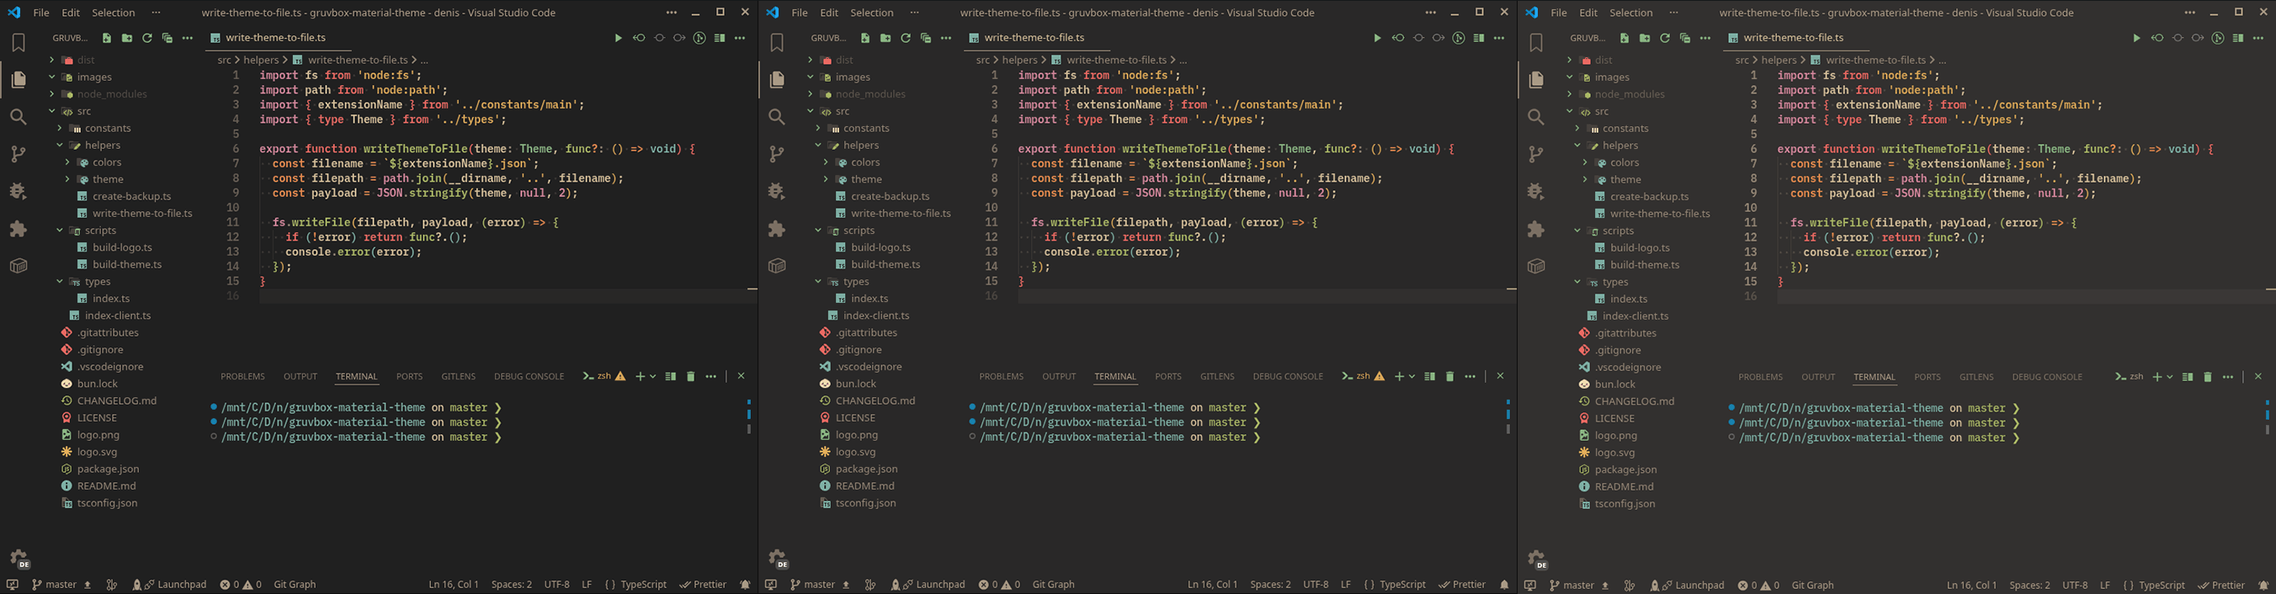
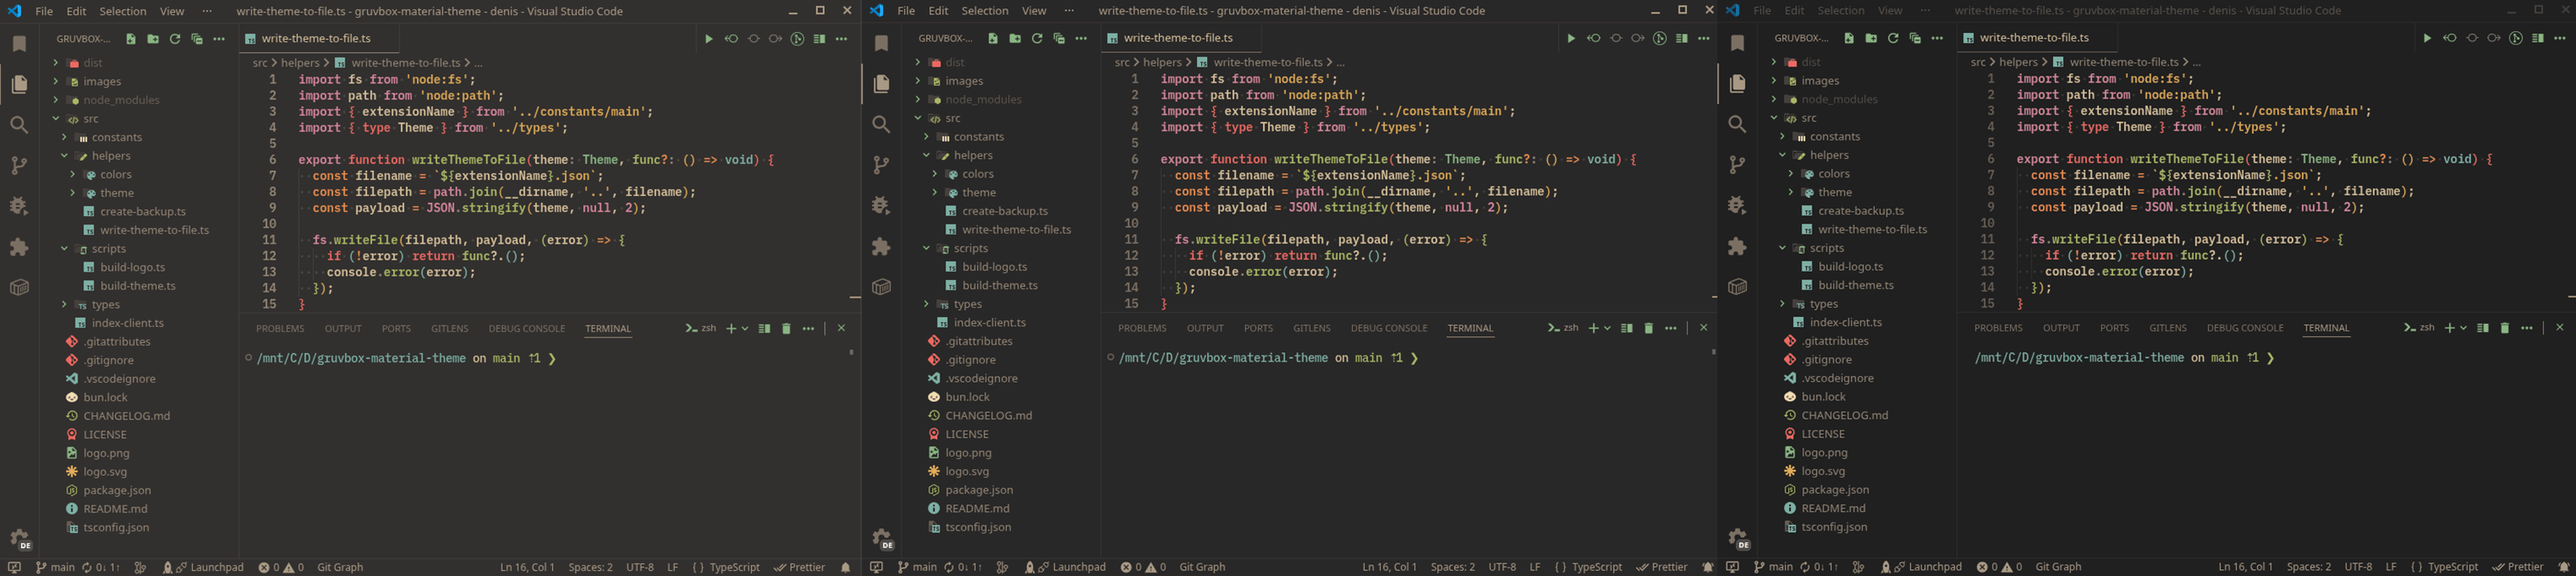
v1.1.0

diff --git a/src/helpers/colors/create-colors.ts b/src/helpers/colors/create-colors.ts
@@ -1,4 +1,4 @@
-import { materialPalette } from '../../constants/theme/palettes';
+import { materialPalette } from '../../constants/theme/palette';
 import {
   type ContrastColors,
   type CursorColor,
@@ -24,7 +24,6 @@ export function createColors({
     'activityBar.activeBorder': contrastColors.grey1,
     'activityBar.activeFocusBorder': contrastColors.grey1,
     'activityBar.background': contrastColors.bg,
-    'activityBar.border': contrastColors.bg,
     'activityBar.dropBackground': contrastColors.bg,
     'activityBar.foreground': contrastColors.grey2,
     'activityBar.inactiveForeground': contrastColors.grey0,
@@ -78,7 +77,7 @@ export function createColors({
     'debugTokenExpression.string': paletteColors.yellow,
     'debugTokenExpression.value': paletteColors.green,
     'debugToolBar.background': contrastColors.bg,
-    'descriptionForeground': contrastColors.grey1,
+    descriptionForeground: contrastColors.grey1,
     'diffEditor.diagonalFill': contrastColors.bg6,
     'diffEditor.insertedTextBackground': `${paletteColors.aquaDim}40`,
     'diffEditor.removedTextBackground': `${paletteColors.redDim}40`,
@@ -119,7 +118,6 @@ export function createColors({
     'editorError.foreground': paletteColors.redDim,
     'editorGhostText.background': `${contrastColors.bg}00`,
     'editorGhostText.foreground': contrastColors.bg9,
-    'editorGroup.border': contrastColors.bg0,
     'editorGroup.dropBackground': `${contrastColors.bg5}60`,
     'editorGroupHeader.noTabsBackground': contrastColors.bg,
     'editorGroupHeader.tabsBackground': contrastColors.bg,
@@ -179,7 +177,7 @@ export function createColors({
     'editorWidget.background': contrastColors.bg,
     'editorWidget.border': contrastColors.bg9,
     'editorWidget.foreground': paletteColors.fg,
-    'errorForeground': paletteColors.red,
+    errorForeground: paletteColors.red,
     'extensionBadge.remoteBackground': contrastColors.grey2,
     'extensionBadge.remoteForeground': contrastColors.bg,
     'extensionButton.prominentBackground': contrastColors.grey2,
@@ -188,8 +186,7 @@ export function createColors({
     'extensionIcon.preReleaseForeground': paletteColors.orange,
     'extensionIcon.starForeground': paletteColors.aqua,
     'extensionIcon.verifiedForeground': paletteColors.green,
-    'focusBorder': `${contrastColors.bg5}00`,
-    'foreground': contrastColors.grey2,
+    foreground: contrastColors.grey2,
     'gitDecoration.addedResourceForeground': `${materialPalette.green}a0`,
     'gitDecoration.conflictingResourceForeground': `${materialPalette.purple}a0`,
     'gitDecoration.deletedResourceForeground': `${materialPalette.red}a0`,
@@ -204,7 +201,8 @@ export function createColors({
     'gitlens.decorations.branchAheadForegroundColor': paletteColors.aqua,
     'gitlens.decorations.branchBehindForegroundColor': paletteColors.orange,
     'gitlens.decorations.branchDivergedForegroundColor': paletteColors.yellow,
-    'gitlens.decorations.branchMissingUpstreamForegroundColor': paletteColors.red,
+    'gitlens.decorations.branchMissingUpstreamForegroundColor':
+      paletteColors.red,
     'gitlens.decorations.branchUnpublishedForegroundColor': paletteColors.blue,
     'gitlens.decorations.branchUpToDateForegroundColor': paletteColors.fg,
     'gitlens.decorations.copiedForegroundColor': paletteColors.purple,
@@ -303,7 +301,6 @@ export function createColors({
     'notificationsInfoIcon.foreground': paletteColors.blue,
     'notificationsWarningIcon.foreground': paletteColors.yellow,
     'panel.background': contrastColors.bg,
-    'panel.border': contrastColors.bg,
     'panelInput.border': contrastColors.bg5,
     'panelSection.border': contrastColors.bg0,
     'panelSectionHeader.background': contrastColors.bg,
@@ -335,7 +332,7 @@ export function createColors({
     'rust_analyzer.inlayHints.foreground': contrastColors.bg9,
     'rust_analyzer.syntaxTreeBorder': paletteColors.red,
     'sash.hoverBorder': contrastColors.grey0,
-    'scrollbar.shadow': contrastColors.shadow,
+    'scrollbar.shadow': contrastColors.bg2,
     'scrollbarSlider.activeBackground': contrastColors.grey2,
     'scrollbarSlider.background': `${contrastColors.bg9}80`,
     'scrollbarSlider.hoverBackground': contrastColors.bg9,
@@ -362,7 +359,6 @@ export function createColors({
     'sideBarSectionHeader.foreground': contrastColors.grey2,
     'sideBarTitle.foreground': contrastColors.grey2,
     'statusBar.background': contrastColors.bg,
-    'statusBar.border': contrastColors.bg,
     'statusBar.debuggingBackground': contrastColors.bg,
     'statusBar.debuggingForeground': paletteColors.orange,
     'statusBar.foreground': contrastColors.grey2,
@@ -414,9 +410,7 @@ export function createColors({
     'symbolIcon.unitForeground': paletteColors.fg,
     'symbolIcon.variableForeground': paletteColors.blue,
     'tab.activeBackground': contrastColors.bg,
-    'tab.activeBorder': contrastColors.grey2,
     'tab.activeForeground': paletteColors.fg,
-    'tab.border': contrastColors.bg,
     'tab.hoverBackground': contrastColors.bg,
     'tab.hoverForeground': paletteColors.fg,
     'tab.inactiveBackground': contrastColors.bg,
@@ -459,7 +453,6 @@ export function createColors({
     'textPreformat.foreground': paletteColors.yellow,
     'titleBar.activeBackground': contrastColors.bg,
     'titleBar.activeForeground': contrastColors.grey2,
-    'titleBar.border': contrastColors.bg,
     'titleBar.inactiveBackground': contrastColors.bg,
     'titleBar.inactiveForeground': contrastColors.grey0,
     'toolbar.hoverBackground': contrastColors.bg3,
@@ -469,6 +462,6 @@ export function createColors({
     'welcomePage.buttonHoverBackground': `${contrastColors.bg2}a0`,
     'welcomePage.progress.foreground': paletteColors.green,
     'welcomePage.tileHoverBackground': contrastColors.bg2,
-    'widget.shadow': contrastColors.shadow,
+    'widget.shadow': contrastColors.bg2,
   };
 }

diff --git a/src/helpers/theme/create-theme.ts b/src/helpers/theme/create-theme.ts
@@ -1,18 +1,16 @@
-import {
-  classicPallete,
-  materialPalette,
-} from '../../constants/theme/palettes';
+import { classicPallete, materialPalette } from '../../constants/theme/palette';
 
 import {
   hardContrast,
   mediumContrast,
   softContrast,
-} from '../../constants/theme/contrasts';
+} from '../../constants/theme/contrast';
 
 import {
   createColors,
   createSelectionColors,
   createSemanticColors,
+  createSeparatorsColor,
   createTokenColors,
 } from '../colors';
 
@@ -36,9 +34,13 @@ const contrastColorsRecord: Record<ThemeContrast, ContrastColors> = {
   soft: softContrast,
 };
 
-export function createTheme(themeOptions: ThemeOptions): Theme {
-  const { palette, contrast, selection, cursor } = themeOptions;
-
+export function createTheme({
+  contrast,
+  cursor,
+  enableSparators,
+  palette,
+  selection,
+}: ThemeOptions): Theme {
   const paletteColors = paletteColorsRecord[palette];
   const contrastColors = contrastColorsRecord[contrast];
 
@@ -55,18 +57,22 @@ export function createTheme(themeOptions: ThemeOptions): Theme {
     selectionColors,
   });
 
-  const tokenColors = createTokenColors({
+  const separatorsColor = createSeparatorsColor({
+    isEnabled: enableSparators,
     contrastColors,
-    paletteColors,
   });
-
-  const semanticTokenColors = createSemanticColors(paletteColors);
 
   return {
     palette,
-    colors,
-    tokenColors,
+    colors: {
+      ...colors,
+      ...separatorsColor,
+    },
+    tokenColors: createTokenColors({
+      contrastColors,
+      paletteColors,
+    }),
     semanticHighlighting: true,
-    semanticTokenColors,
+    semanticTokenColors: createSemanticColors(paletteColors),
   };
 }

diff --git a/src/helpers/theme/get-theme-options.ts b/src/helpers/theme/get-theme-options.ts
@@ -3,6 +3,7 @@ import { defaultThemeOptions, extensionName } from '../../constants/main';
 import {
   type CursorColor,
   type SelectionColor,
+  type Separators,
   type ThemeContrast,
   type ThemeOptions,
   type ThemePalette,
@@ -15,10 +16,12 @@ export function getThemeOptions(): ThemeOptions {
   const cursor = config.get<CursorColor>('cursor');
   const palette = config.get<ThemePalette>('palette');
   const selection = config.get<SelectionColor>('selection');
+  const enableSparators = config.get<Separators>('separators');
 
   return {
     contrast: contrast ?? defaultThemeOptions.contrast,
     cursor: cursor ?? defaultThemeOptions.cursor,
+    enableSparators: enableSparators ?? defaultThemeOptions.enableSparators,
     palette: palette ?? defaultThemeOptions.palette,
     selection: selection ?? defaultThemeOptions.selection,
   };
@@ -28,6 +31,7 @@ export function checkIsDefaultThemeOptions(options: ThemeOptions) {
   return (
     options.contrast === defaultThemeOptions.contrast &&
     options.cursor === defaultThemeOptions.cursor &&
+    options.enableSparators === defaultThemeOptions.enableSparators &&
     options.palette === defaultThemeOptions.palette &&
     options.selection === defaultThemeOptions.selection
   );

diff --git a/src/types/index.ts b/src/types/index.ts
@@ -10,9 +10,10 @@ type BaseColor =
 export type ThemePalette = 'classic' | 'material';
 export type ThemeContrast = 'soft' | 'medium' | 'hard';
 
-export type PaletteColor = BaseColor | `${BaseColor}Dim`;
 export type CursorColor = BaseColor | 'white';
+export type PaletteColor = BaseColor | `${BaseColor}Dim`;
 export type SelectionColor = BaseColor | 'grey';
+export type Separators = boolean;
 
 export interface TokenColor {
   name: string;
@@ -31,6 +32,7 @@ export interface Theme {
 export interface ThemeOptions {
   contrast: ThemeContrast;
   cursor: CursorColor;
+  enableSparators: boolean;
   palette: ThemePalette;
   selection: SelectionColor;
 }
@@ -56,7 +58,6 @@ export interface ContrastColors {
   grey0: string;
   grey1: string;
   grey2: string;
-  shadow: string;
 }
 
 export interface SelectionColors {

diff --git a/src/helpers/colors/create-separators-color.ts b/src/helpers/colors/create-separators-color.ts
@@ -1,0 +1,25 @@
+import { type ContrastColors } from '../../types';
+
+export function createSeparatorsColor({
+  isEnabled,
+  contrastColors,
+}: {
+  isEnabled: boolean;
+  contrastColors: ContrastColors;
+}) {
+  const separatorsColor = isEnabled ? contrastColors.bg3 : contrastColors.bg;
+
+  return {
+    'activityBar.border': separatorsColor,
+    'contrastBorder': separatorsColor,
+    'editorGroup.border': separatorsColor, 
+    'editorGroupHeader.border': contrastColors.bg,
+    'focusBorder': separatorsColor,
+    'panel.border': separatorsColor,
+    'sideBar.border': separatorsColor,
+    'statusBar.border': separatorsColor,
+    'tab.activeBorder': contrastColors.bg9,
+    'tab.border': separatorsColor,
+    'titleBar.border': separatorsColor,
+  };
+}

diff --git a/src/constants/main.ts b/src/constants/main.ts
@@ -5,6 +5,7 @@ export const extensionName = 'gruvbox-material-theme';
 export const defaultThemeOptions: ThemeOptions = {
   contrast: 'medium',
   cursor: 'white',
+  enableSparators: false,
   palette: 'material',
   selection: 'grey',
 };

diff --git a/src/helpers/colors/index.ts b/src/helpers/colors/index.ts
@@ -1,4 +1,5 @@
 export * from './create-colors';
 export * from './create-selection-colors';
 export * from './create-semantic-colors';
+export * from './create-separators-color';
 export * from './create-token-colors';

diff --git a/src/constants/theme/contrast.ts b/src/constants/theme/contrast.ts
@@ -4,7 +4,6 @@ const commonContrastColors = {
   grey0: '#7c6f64',
   grey1: '#928374',
   grey2: '#a89984',
-  shadow: '#00000070',
 };
 
 export const softContrast: ContrastColors = {

diff --git a/README.md b/README.md
@@ -14,9 +14,9 @@
 </h3>
 
 <p align="center">
-  <a href="https://marketplace.visualstudio.com/items?itemName=navernoedenis.gruvbox-material-icons"><img src="https://img.shields.io/badge/v1.0.4-%23000?style=for-the-badge&label=version&color=%23a9b665" alt="version"></a>&nbsp;
+  <a href="https://marketplace.visualstudio.com/items?itemName=navernoedenis.gruvbox-material-icons"><img src="https://img.shields.io/badge/v1.1.0-%23000?style=for-the-badge&label=version&color=%23a9b665" alt="version"></a>&nbsp;
   <a href="https://marketplace.visualstudio.com/items?itemName=navernoedenis.gruvbox-material-icons"><img src="https://img.shields.io/badge/0%2F0(0)-%23000?style=for-the-badge&label=rating&color=%23e3ae5a" alt="rating"></a>&nbsp;
-  <a href="https://marketplace.visualstudio.com/items?itemName=navernoedenis.gruvbox-material-icons"><img src="https://img.shields.io/badge/35+-%23000?style=for-the-badge&label=installs&color=%23ebdbb2" alt="installs"></a>&nbsp;
+  <a href="https://marketplace.visualstudio.com/items?itemName=navernoedenis.gruvbox-material-icons"><img src="https://img.shields.io/badge/40+-%23000?style=for-the-badge&label=installs&color=%23ebdbb2" alt="installs"></a>&nbsp;
 </p>
 
 <h2 align="center">Palette: Material</h2>
@@ -25,17 +25,17 @@
 <h2 align="center">Palette: Classic</h2>
 <img src="./images/palette-classic.png" alt="Gruvbox Classic Theme">
 
-<h2 align="center" style="margin-bottom: 0;">Contrasts</h2>
+<h2 align="center" style="margin-bottom: 0;">Contrast</h2>
 
 <h3 align="center">
-  <span>Hard</span>
+  <span>Soft</span>
   <span>|</span>
   <span>Medium</span>
   <span>|<span>
-  <span>Soft</span>
+  <span>Hard</span>
 </h3>
 
-<img src="./images/contrasts.png" alt="Gruvbox Material Theme - Contrasts">
+<img src="./images/contrasts.png" alt="Gruvbox Material Theme - Contrast">
 
 <h2 align="center">Special Thanks</h2>
 

diff --git a/CHANGELOG.md b/CHANGELOG.md
@@ -1,5 +1,10 @@
 # Changelog
 
+## 1.1.0
+
+- Added border separators
+- Updated the logo
+
 ## 1.0.4
 
 - Fixed inconsistent colors for `import`, `export` and `from` in .js, .ts, .jsx and .tsx files
@@ -25,5 +30,5 @@
 ## 1.0.0
 
 - Initial release
-- Added two palettes: material and classic
-- Customizable contrast, cursor and selection colors
+- Added two palettes `material` and `classic`
+- Added customizable `contrast`, `cursor` and `selection colors`
